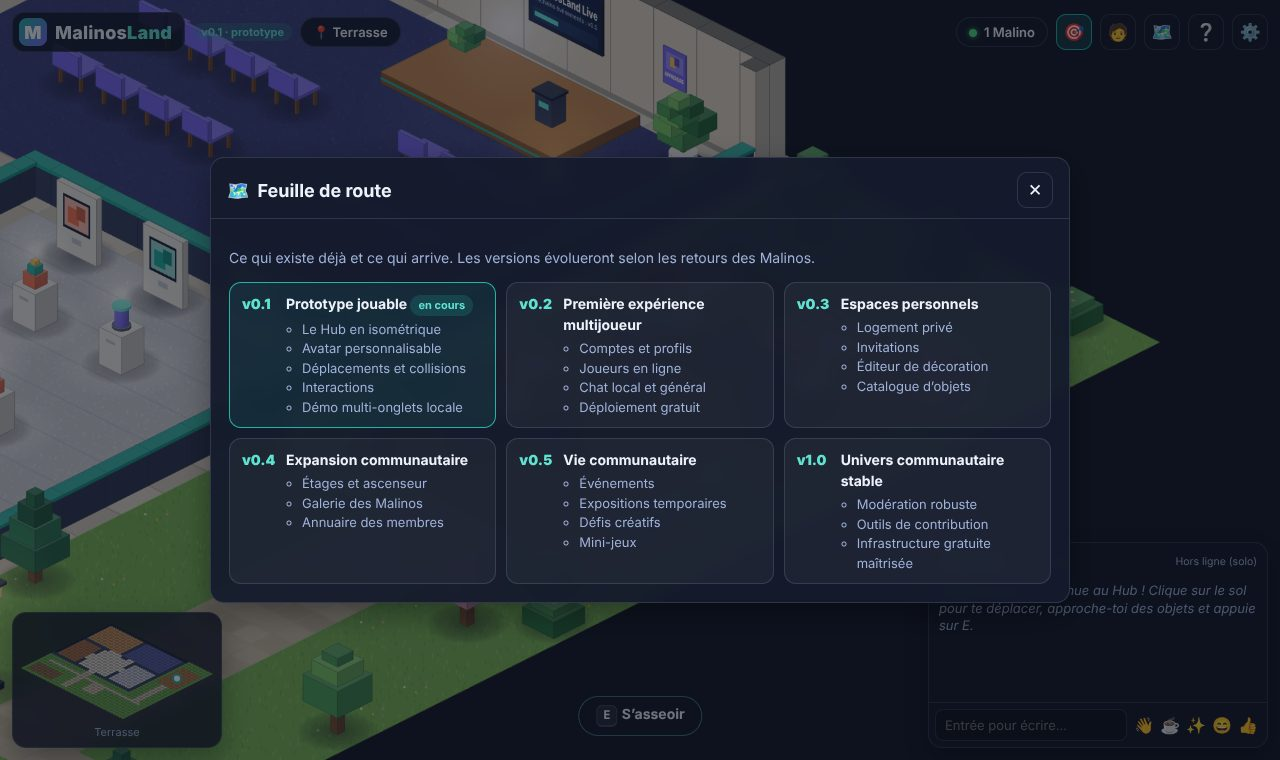
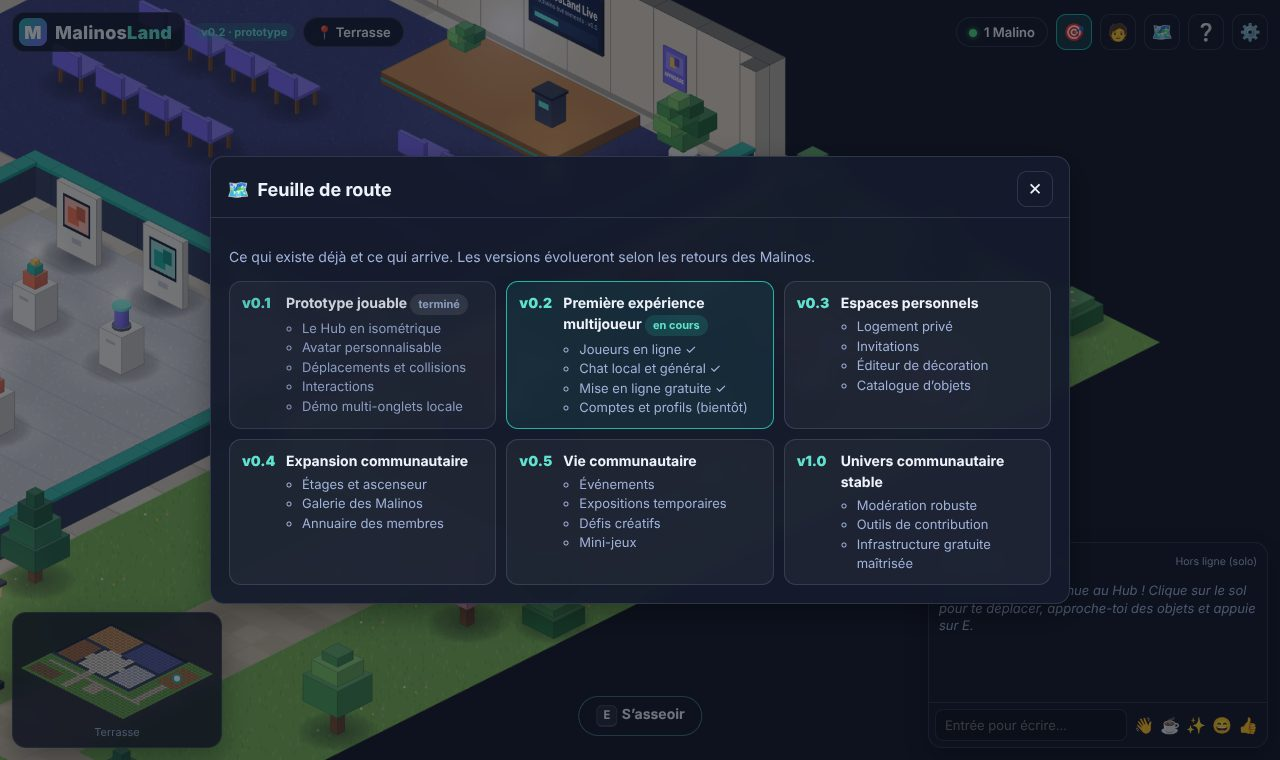
content: le robot d'accueil s'appelle Joshua (#7)
- Malo devient Joshua (carte, objectif, bulle, tests, scripts, docs).
- Capture hall-dialogue-joshua.jpg, captures d'accueil et de feuille de
  route régénérées.
- Badge « v0.2 · prototype », version 0.2.0.

Claude-Session: https://claude.ai/code/session_01Qw77oRfavFk1UuUHYMmnwo

diff --git a/tests/player.test.ts b/tests/player.test.ts
@@ -22,14 +22,14 @@ describe('PlayerController', () => {
     expect(pc.pos.y).toBeCloseTo(7.5, 1);
   });
 
-  it('marche jusqu’à Malo puis déclenche l’interaction', () => {
+  it('marche jusqu’à Joshua puis déclenche l’interaction', () => {
     const world = loadWorld('hub');
     const pc = new PlayerController(world, 'me', world.map.spawn, 'ny');
-    const malo = world.getObject('malo')!;
-    expect(pc.requestUse(malo)).toBe('walking');
+    const joshua = world.getObject('joshua')!;
+    expect(pc.requestUse(joshua)).toBe('walking');
     const arrived = simulate(pc, 15);
-    expect(arrived).toEqual([{ kind: 'use', objectId: 'malo' }]);
-    expect(world.distanceToObject(pc.pos, malo)).toBeLessThan(1);
+    expect(arrived).toEqual([{ kind: 'use', objectId: 'joshua' }]);
+    expect(world.distanceToObject(pc.pos, joshua)).toBeLessThan(1);
   });
 
   it('s’assoit sur un banc puis se relève au clavier', () => {

diff --git a/tests/world.test.ts b/tests/world.test.ts
@@ -123,10 +123,10 @@ describe('WorldModel', () => {
   });
 
   it('trouve la zone et l’objet utilisable le plus proche', () => {
-    const malo = world.getObject('malo')!;
-    expect(world.zoneAt({ x: malo.x + 0.5, y: malo.y + 0.5 })?.id).toBe('hall');
-    const near = world.nearestUsable({ x: malo.x + 1.4, y: malo.y + 0.5 });
-    expect(near?.id).toBe('malo');
+    const joshua = world.getObject('joshua')!;
+    expect(world.zoneAt({ x: joshua.x + 0.5, y: joshua.y + 0.5 })?.id).toBe('hall');
+    const near = world.nearestUsable({ x: joshua.x + 1.4, y: joshua.y + 0.5 });
+    expect(near?.id).toBe('joshua');
   });
 
   it('gère l’occupation des sièges', () => {

diff --git a/src/ui/hud/TopBar.tsx b/src/ui/hud/TopBar.tsx
@@ -20,8 +20,15 @@ export function TopBar({
             Malinos<b>Land</b>
           </span>
         </div>
-        <span class="badge" title="Version prototype : fonctionne en local, sans serveur">
-          v0.1 · prototype
+        <span
+          class="badge"
+          title={
+            REALTIME_URL
+              ? 'Version prototype en ligne : les comptes arrivent bientôt'
+              : 'Version prototype : fonctionne en local, sans serveur'
+          }
+        >
+          v0.2 · prototype
         </span>
         {zone && (
           <span class={`zone-chip ${zone.status}`} title={zone.description}>

diff --git a/tests/services.test.ts b/tests/services.test.ts
@@ -43,7 +43,7 @@ describe('stockage versionné', () => {
 
 describe('profil et réglages', () => {
   it('valide le profil chargé', () => {
-    expect(parseProfile({ name: 'Malo', look: { top: 3 } })?.look.top).toBe(3);
+    expect(parseProfile({ name: 'Joshua', look: { top: 3 } })?.look.top).toBe(3);
     expect(parseProfile({ name: '<b>', look: {} })).toBeNull();
     expect(parseProfile(null)).toBeNull();
   });

diff --git a/src/content/quests.ts b/src/content/quests.ts
@@ -11,7 +11,7 @@ export interface QuestDef {
 export const QUESTS: QuestDef[] = [
   {
     id: 'talk_guide',
-    title: 'Parle à Malo, le robot d’accueil',
+    title: 'Parle à Joshua, le robot d’accueil',
     hint: 'Il t’attend dans le hall. Clique sur lui ou approche-toi et appuie sur E.',
   },
   { id: 'read_welcome', title: 'Lis le panneau de bienvenue', hint: 'Près de l’entrée du hall.' },

diff --git a/src/game/WorldRenderer.ts b/src/game/WorldRenderer.ts
@@ -208,7 +208,7 @@ export class WorldRenderer {
     for (const l of this.labels) l.setVisible(visible);
   }
 
-  /** Bulle temporaire au-dessus d'un objet (ex. Malo qui salue). */
+  /** Bulle temporaire au-dessus d'un objet (ex. Joshua qui salue). */
   objectBubble(id: string, text: string, durationMs = 5000): void {
     const r = this.objects.get(id);
     if (!r) return;

diff --git a/src/game/scenes/WorldScene.ts b/src/game/scenes/WorldScene.ts
@@ -603,7 +603,7 @@ export class WorldScene extends Phaser.Scene {
     if (id === 'terrace') this.quest('terrace');
     if (id === 'hall' && !this.greeted) {
       this.greeted = true;
-      this.renderer3d.objectBubble('malo', 'Bip bip ! Bienvenue !', 4500);
+      this.renderer3d.objectBubble('joshua', 'Bip bip ! Bienvenue !', 4500);
     }
   }
 

diff --git a/tests/core.test.ts b/tests/core.test.ts
@@ -151,7 +151,7 @@ describe('textes', () => {
     expect(sanitizeName('Léa_42')).toBe('Léa_42');
     expect(sanitizeName('a')).toBeNull();
     expect(sanitizeName('<script>')).toBeNull();
-    expect(sanitizeName('   Malo   ')).toBe('Malo');
+    expect(sanitizeName('   Joshua   ')).toBe('Joshua');
   });
 });
 

diff --git a/docs/TESTING.md b/docs/TESTING.md
@@ -49,11 +49,11 @@ Chromium dans `/opt/pw-browsers/chromium` ou dans la variable `CHROMIUM_PATH`
 | ---------------------------- | ------------------------------------------------------------------------------------------------------------------------------------------------------------------------------------------------------------------------------------------------------------------------------------------------- |
 | `tests/core.test.ts`         | Projection iso aller-retour, directions clavier, rotations, collisions (glissement, pas de traversée, bords), A* (chemin valide, sans coin coupé, cible inaccessible), lissage, limiteur de débit, nettoyage des textes et pseudos, profondeur des avatars près d’un meuble long                  |
 | `tests/world.test.ts`        | Validation de chaque carte, **accessibilité de toutes les zones ouvertes**, **chaque objet interactif atteignable**, détection des erreurs de carte, assises après rotation, zones, occupation des sièges                                                                                         |
-| `tests/player.test.ts`       | Trajet A* jusqu’au coworking, aller parler à Malo, s’asseoir puis se lever, impossibilité de traverser un mur au clavier                                                                                                                                                                          |
+| `tests/player.test.ts`       | Trajet A* jusqu’au coworking, aller parler à Joshua, s’asseoir puis se lever, impossibilité de traverser un mur au clavier                                                                                                                                                                        |
 | `tests/network.test.ts`      | Protocole (rejet des messages hostiles, nettoyage), découverte entre clients, débit limité, silence à l’arrêt, dégradation selon le budget, anti-spam, filtrage par salle, départ et pairs fantômes, transport serveur (reconnexion, refus, adresse), ordres `rate` / `notice` du serveur         |
 | `tests/realtime-hub.test.ts` | Règles du serveur : présentation sans écho, relais par salle, téléportation et identifiant usurpé ignorés, positions hors carte, chat local/général, anti-spam, salle pleine, identifiant en double, inondation, budget du jour (ralentir puis maintenance), départ, messages réservés au serveur |
 | `tests/services.test.ts`     | Stockage versionné robuste, validation du profil et des réglages, bornes des apparences, cohérence contenu ↔ dessins ↔ objectifs, rangement de l’atlas sans chevauchement                                                                                                                         |
-| `scripts/smoke-test.mjs`     | Création du personnage, entrée dans le monde, clavier, chat, dialogue avec Malo, panneau, ascenseur, café, s’asseoir, terrasse, **démo multi-onglets**, aucune erreur JS ni violation CSP                                                                                                         |
+| `scripts/smoke-test.mjs`     | Création du personnage, entrée dans le monde, clavier, chat, dialogue avec Joshua, panneau, ascenseur, café, s’asseoir, terrasse, **démo multi-onglets**, aucune erreur JS ni violation CSP                                                                                                       |
 | `scripts/online-test.mjs`    | Deux navigateurs séparés connectés au serveur : badge « En ligne », chacun voit l’autre, déplacement, chat, départ                                                                                                                                                                                |
 
 ## Objectifs de performance

diff --git a/docs/WORLD_DESIGN.md b/docs/WORLD_DESIGN.md
@@ -33,7 +33,7 @@ y  0   BBBBBBBBBBBBB#############gggggggg      B/# murs hauts (brique / enduit)
 
 | Zone (id)                          | Statut           | Contenu                                                                                             |
 | ---------------------------------- | ---------------- | --------------------------------------------------------------------------------------------------- |
-| Hall d’accueil (`hall`)            | ouvert           | Malo le robot, comptoir, panneau de bienvenue, tableau « Roadmap », ascenseur, tapis MalinosLand    |
+| Hall d’accueil (`hall`)            | ouvert           | Joshua le robot, comptoir, panneau de bienvenue, tableau « Roadmap », ascenseur, tapis MalinosLand  |
 | Espace coworking (`coworking`)     | ouvert           | 4 bureaux doubles, poste « Astuce IA du jour », table ronde, bibliothèques, fenêtres, tableau blanc |
 | Salle de conférence (`conference`) | ouvert           | Scène, pupitre, écran géant, rangées de sièges (événements : v0.5)                                  |
 | Salon détente (`lounge`)           | ouvert           | Canapés, fauteuils, comptoir à café, borne d’arcade, miroir, livres                                 |
@@ -73,11 +73,11 @@ Fichiers JSON dans `src/content/maps/`, typés par `MapFile` (`src/world/types.t
       "type": "robot",
       "x": 11,
       "y": 15,
-      "id": "malo",
-      "label": "Malo",
+      "id": "joshua",
+      "label": "Joshua",
       "rot": 0,
       "variant": 0,
-      "interaction": { "kind": "dialog", "label": "Parler à Malo", "lines": ["…"] },
+      "interaction": { "kind": "dialog", "label": "Parler à Joshua", "lines": ["…"] },
     },
   ],
   "wallDecor": [{ "type": "window", "x": 2, "y": 0, "side": "py" }],

diff --git a/README.md b/README.md
@@ -33,11 +33,11 @@ Trois promesses :
 
 ## En images
 
-|                              Créer son personnage                               |                 Discuter avec Malo, le robot d’accueil                 |
-| :-----------------------------------------------------------------------------: | :--------------------------------------------------------------------: |
-| ![Écran de création du personnage](docs/images/accueil-creation-personnage.jpg) | ![Dialogue avec Malo dans le hall](docs/images/hall-dialogue-malo.jpg) |
-|                           **Travailler au coworking**                           |                  **S’asseoir au salon avec un café**                   |
-|                 ![Espace coworking](docs/images/coworking.jpg)                  |           ![Salon détente](docs/images/salon-assis-cafe.jpg)           |
+|                              Créer son personnage                               |                  Discuter avec Joshua, le robot d’accueil                  |
+| :-----------------------------------------------------------------------------: | :------------------------------------------------------------------------: |
+| ![Écran de création du personnage](docs/images/accueil-creation-personnage.jpg) | ![Dialogue avec Joshua dans le hall](docs/images/hall-dialogue-joshua.jpg) |
+|                           **Travailler au coworking**                           |                    **S’asseoir au salon avec un café**                     |
+|                 ![Espace coworking](docs/images/coworking.jpg)                  |             ![Salon détente](docs/images/salon-assis-cafe.jpg)             |
 
 Plus d’images et toutes les commandes dans le [guide du joueur](docs/GUIDE_DU_JOUEUR.md).
 
